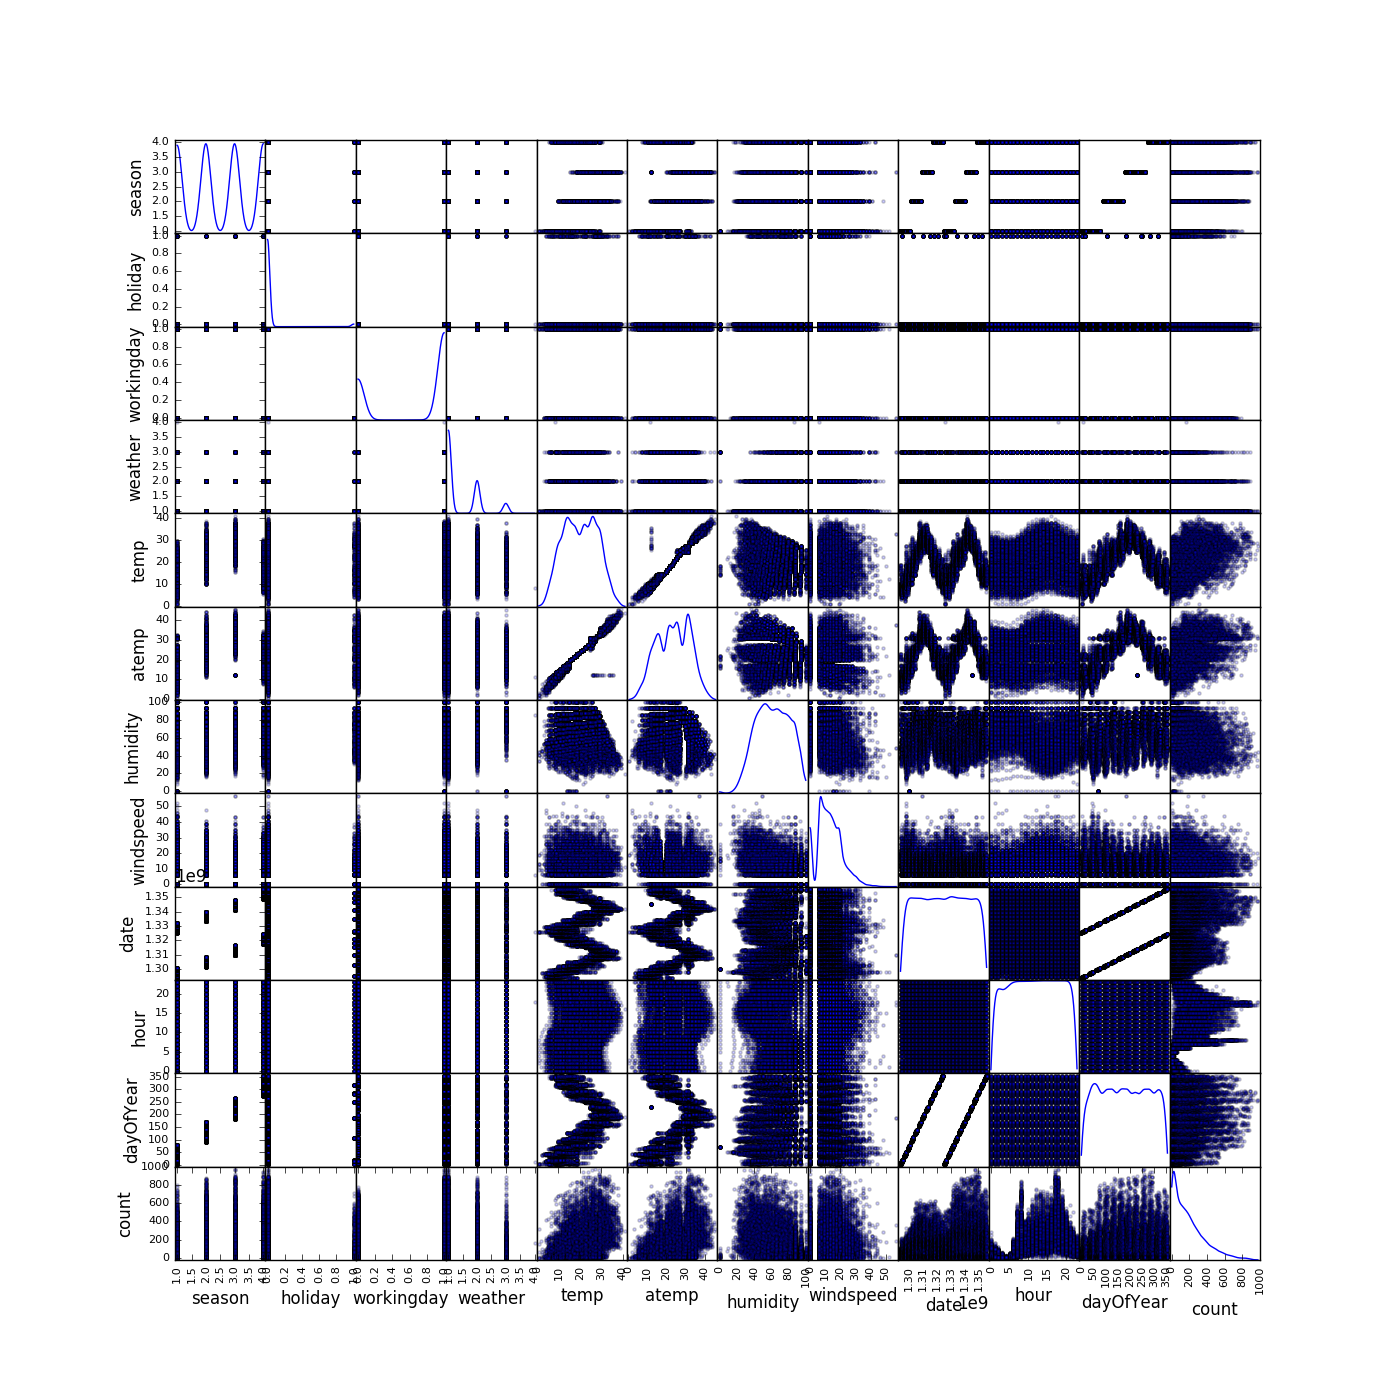
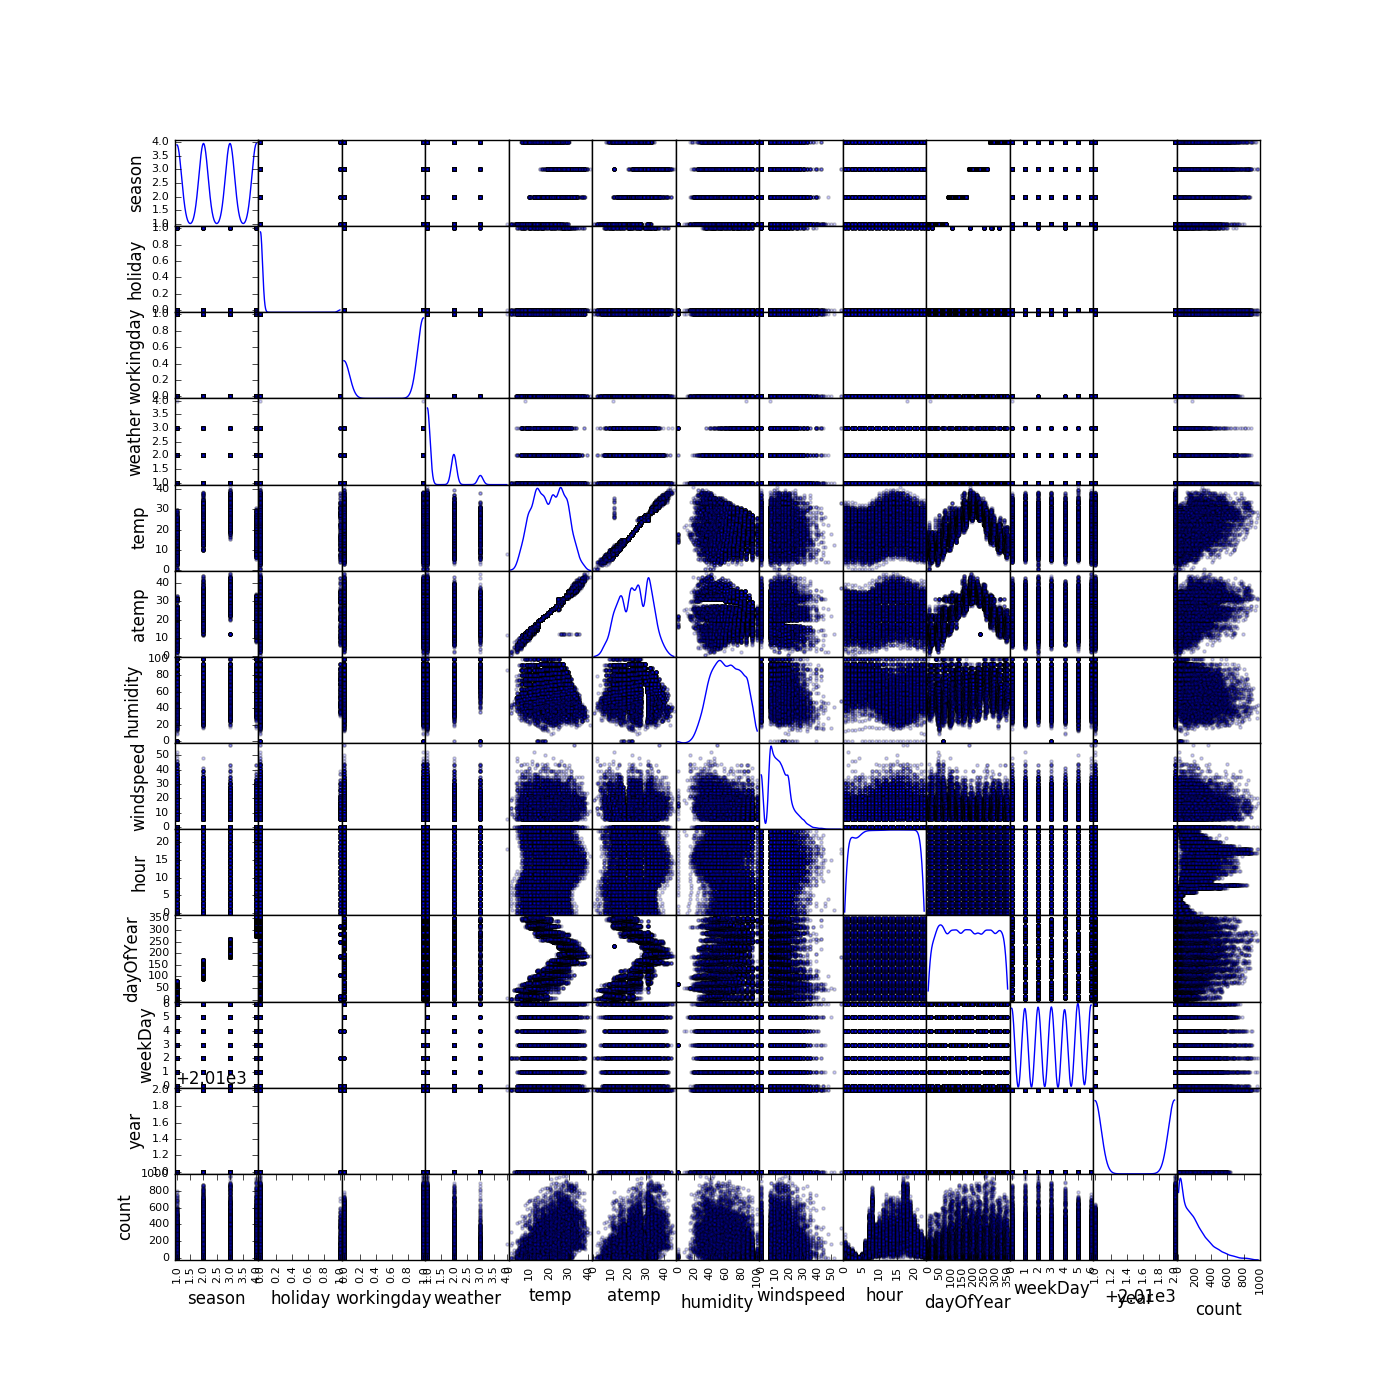
improve documentation

diff --git a/eda.py b/eda.py
@@ -1,5 +1,6 @@
+# use with python3 `python3 eda.py`
 """
-A python script to have an overview of the data in data.csv.
+A python script to crate plots to have an overview of the data in data.csv.
 eda for Exploratory Data Analisys
 """
 
@@ -15,13 +16,14 @@ FILE_NAME = 'data.csv'
 
 # rearange data
 def splitDateTime(s):
-	date = time.mktime(datetime.datetime.strptime(s[0:10], "%Y-%m-%d").timetuple())
-	dayOfYear  = datetime.datetime.strptime(s[0:10], "%Y-%m-%d").timetuple().tm_yday
+	date = datetime.datetime.strptime(s[0:10], "%Y-%m-%d")
+	dayOfYear  = date.timetuple().tm_yday
 	hour = int(s[10:13])
-	return (date, hour, dayOfYear)
-
+	weekDay = date.weekday()
+	year = date.year
+	return (hour, dayOfYear, weekDay, year)
 data = pd.read_csv(FILE_NAME)
-data['date'], data['hour'], data['dayOfYear'] = zip(*data["datetime"].map(splitDateTime))
+data['hour'], data['dayOfYear'], data['weekDay'], data['year'] = zip(*data["datetime"].map(splitDateTime))
 data.drop('datetime', 1)
 
 # delete redundant columns

diff --git a/code.py b/code.py
@@ -1,3 +1,5 @@
+# use with python3 `python3 code.py`
+
 from sklearn import cluster, datasets
 from sklearn.ensemble import RandomForestRegressor, ExtraTreesRegressor
 from sklearn.cross_validation import cross_val_predict
@@ -17,7 +19,7 @@ NB_HOUR_CLUSTER = 12
 
 # Set to true if you want to train the model with all train data and generate
 # the solution to submit on kaggle
-OUTPUT_KAGGLE = True
+OUTPUT_KAGGLE = False
 
 ################################################################################
 # Model evaluation functions                                                   #

diff --git a/README.md b/README.md
@@ -1,19 +1,39 @@
-# Test techniques quantmetry
+# [Kaggle bike sharing demand](https://www.kaggle.com/c/bike-sharing-demand)
 
-## Partie I – Statistiques descriptives
+## Part 1 - Exploratory data analysis
 
-Tout d'abord il est important de modifier le jeu de données afin de pouvoir exploiter la colonne `datetime`. Celle-ci va être découplée en date ("yyyy/mm/dd") => `date`, heure => `hours` et jour de l'année => `dayOfYear`. Il n'y a que les 19 premiers jours pour chacun des mois. Ce n'est pas génant puisque c'est le cas pour chaque mois.
+First let's refactor the `datetime` feature. We can't anlyse non numerical values. We transform it ("yyyy/mm/dd") to `date`, `hours`, `dayOfYear` and `year`.
 
-![matrice de dispertion des parametres](img/scatter_matrix.png)
+![feature dispertion against each other matrix](img/scatter_matrix.png)
 
-Le principal outil d'exploration de données sera la matrice de dispertion d'une variable en fonction d'une autre. Comme nous cherchons à prédire la variable `count` (dernière ligne, dernière collone), nous regardons ses dépendances. Nous désignerons un graphique de la matrice a partir des index (0, 0) désignant le graphique en haut à gauche.
+The main data exploratory analysis tool is the matrix of repartition of a data against another. Since we are trying to predict the `count` feature, we look at its relations with other features.
 
-- Les corrélations les plus évidentes avec `count` sont `hour` et `weather`.
-- Les corrélations moins fortes mais significatives avec `count` sont `workingday`, `dayOfYear` et `holiday`.
-- Les autres semblent avoir moins d'importance.
+- The most evident features related to `count` are `hour` and `weather`.
+- Least significant linked features related to `count` are `workingday`, `dayOfYear` and `holiday`.
+- The `count` variable seems to follow a decreasing exponential equation. Linear regression is probably not a good model.
 
-![histogramme de la variable count](img/count_histo.png)
+![Casual vs Registered users](img/casual_vs_registered.png)
 
-D'apres la courbe de Nous remarquons que la variable `count` semble suivre une equation de type exponentiel decroissante.
+It seems like casual and registered users rent bike following a different model.
 
-## Partie II – Machine Learning
+## Part 2 – Machine Learning
+### Feature engineering
+#### Categorical variables
+
+#### The importance of `year`
+
+#### `casual` vs `registered`
+
+### Model explanation
+linear regression vs random forest
+
+### Performance criterions
+#### R squared
+
+#### Root Mean Squared Error
+
+### Improvement ideas
+- cross validation
+- test more models
+
+## Conclusion
